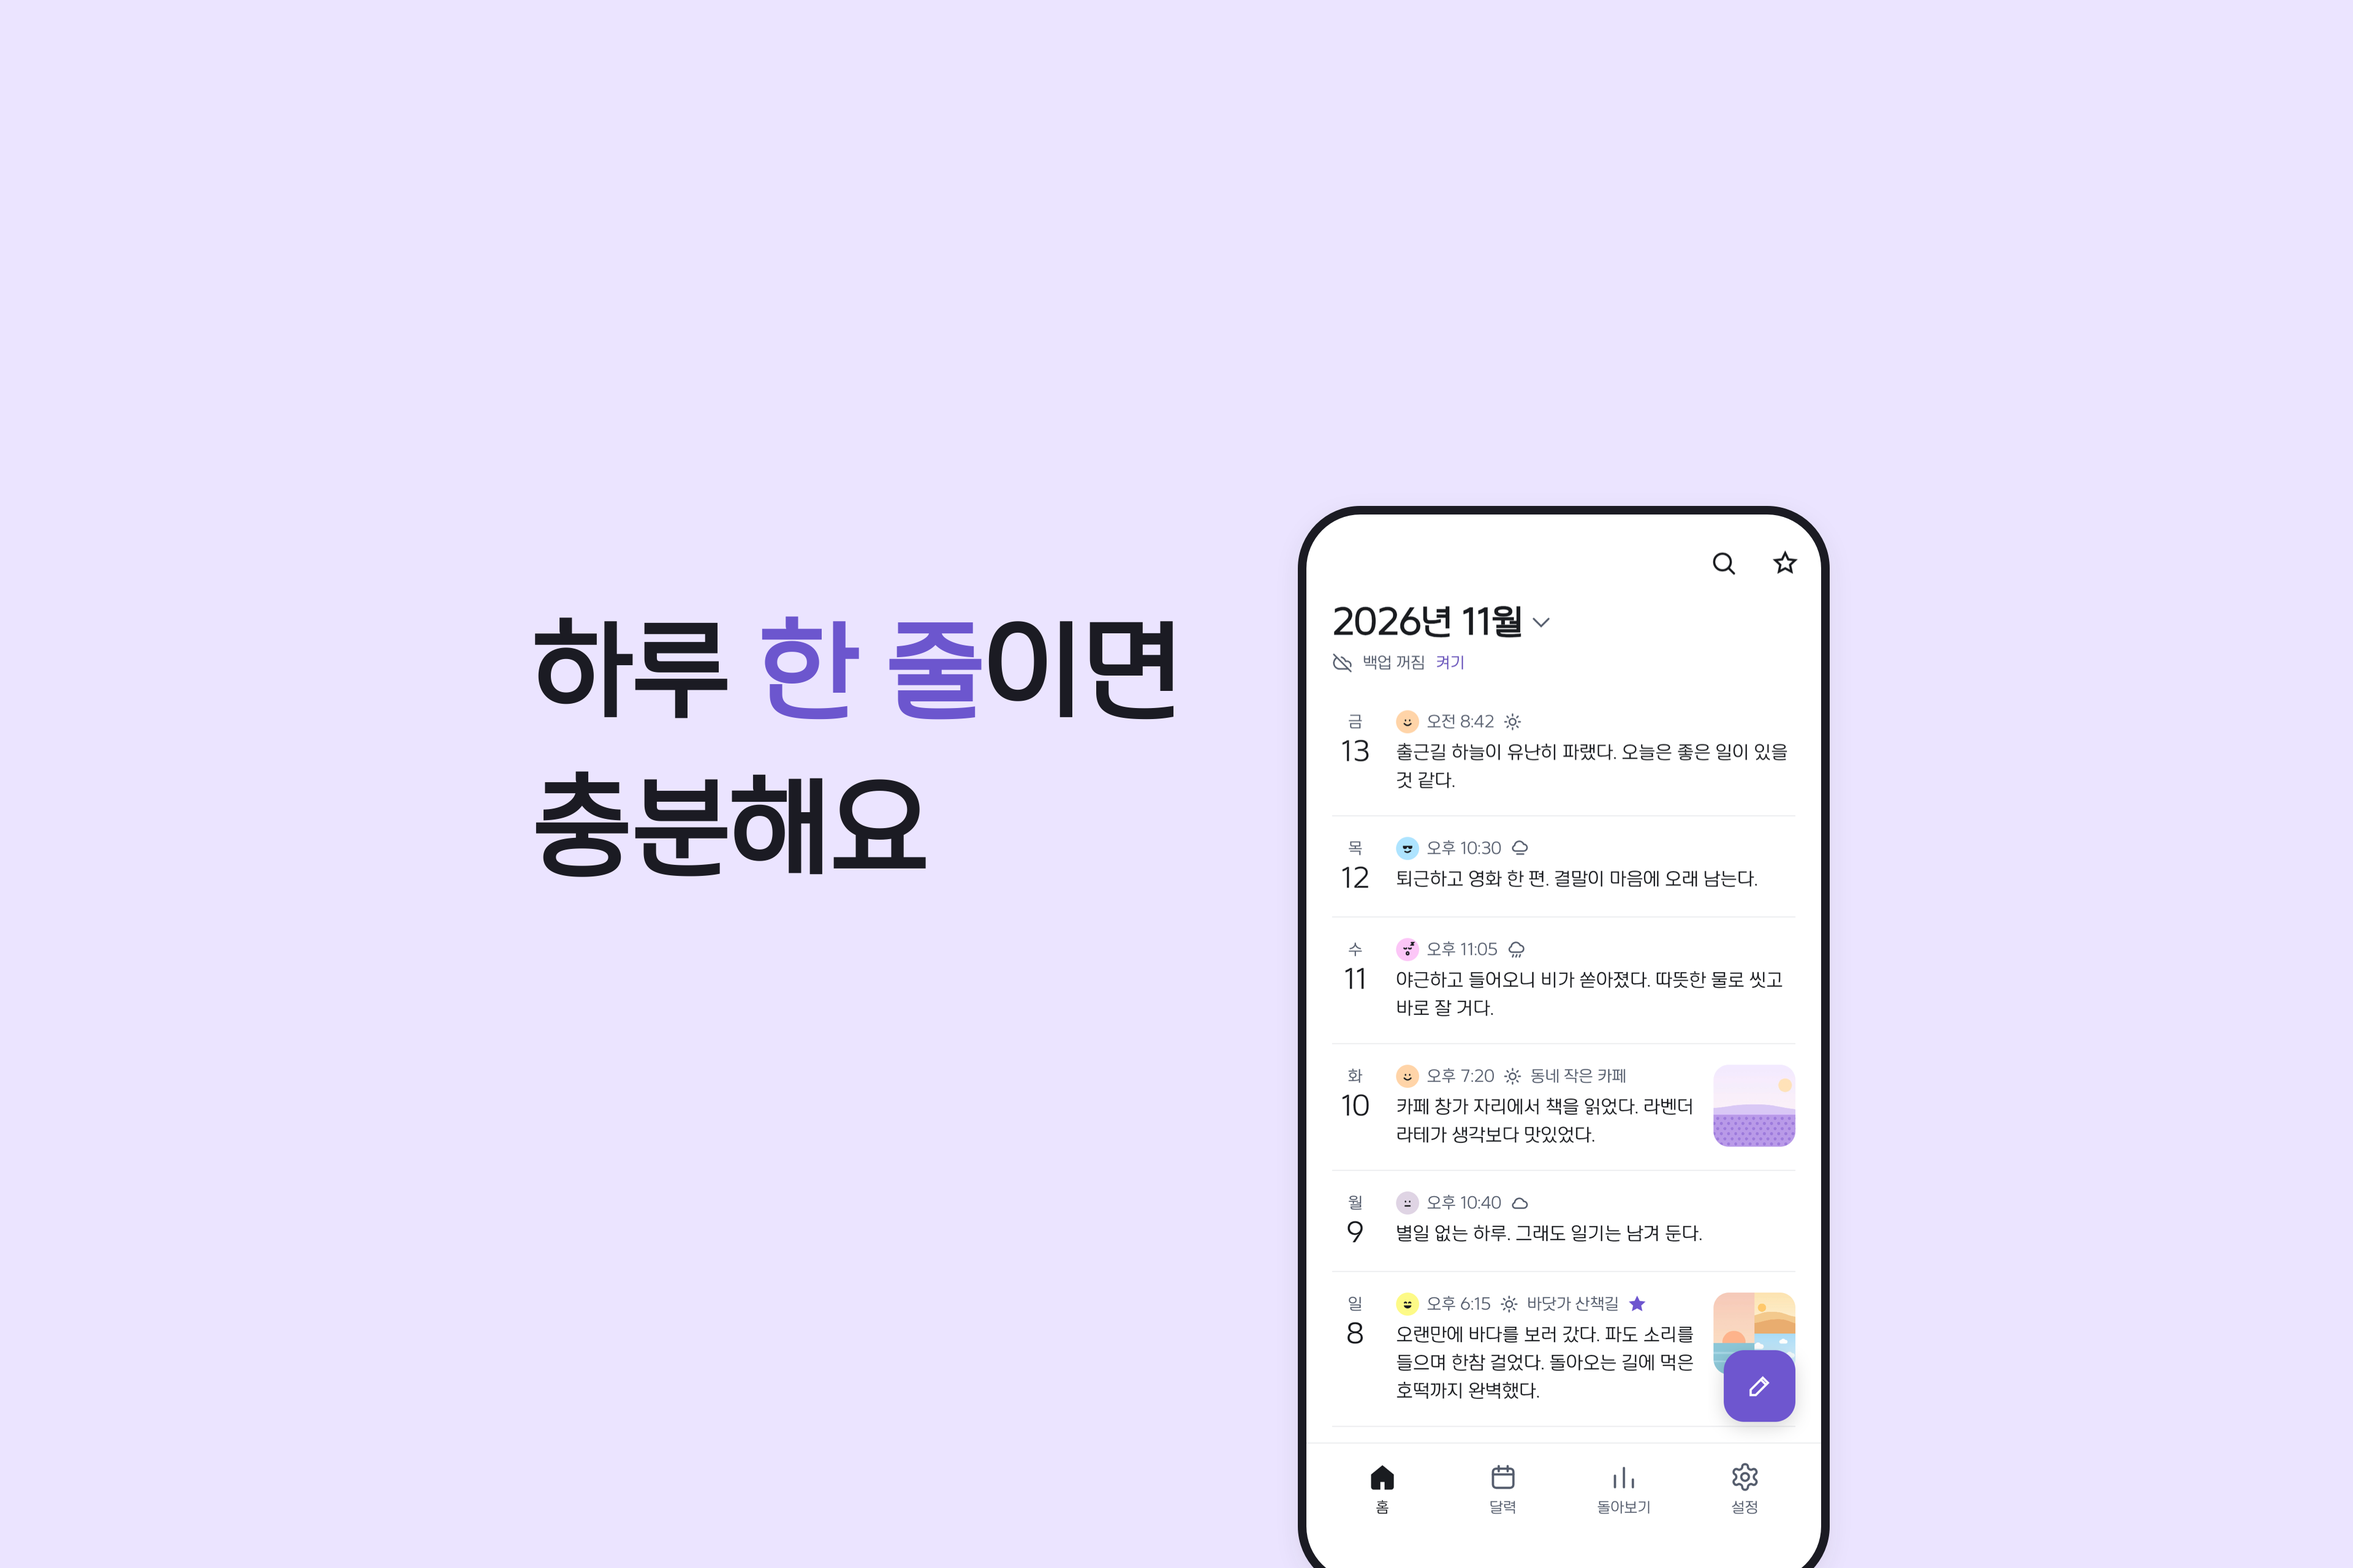
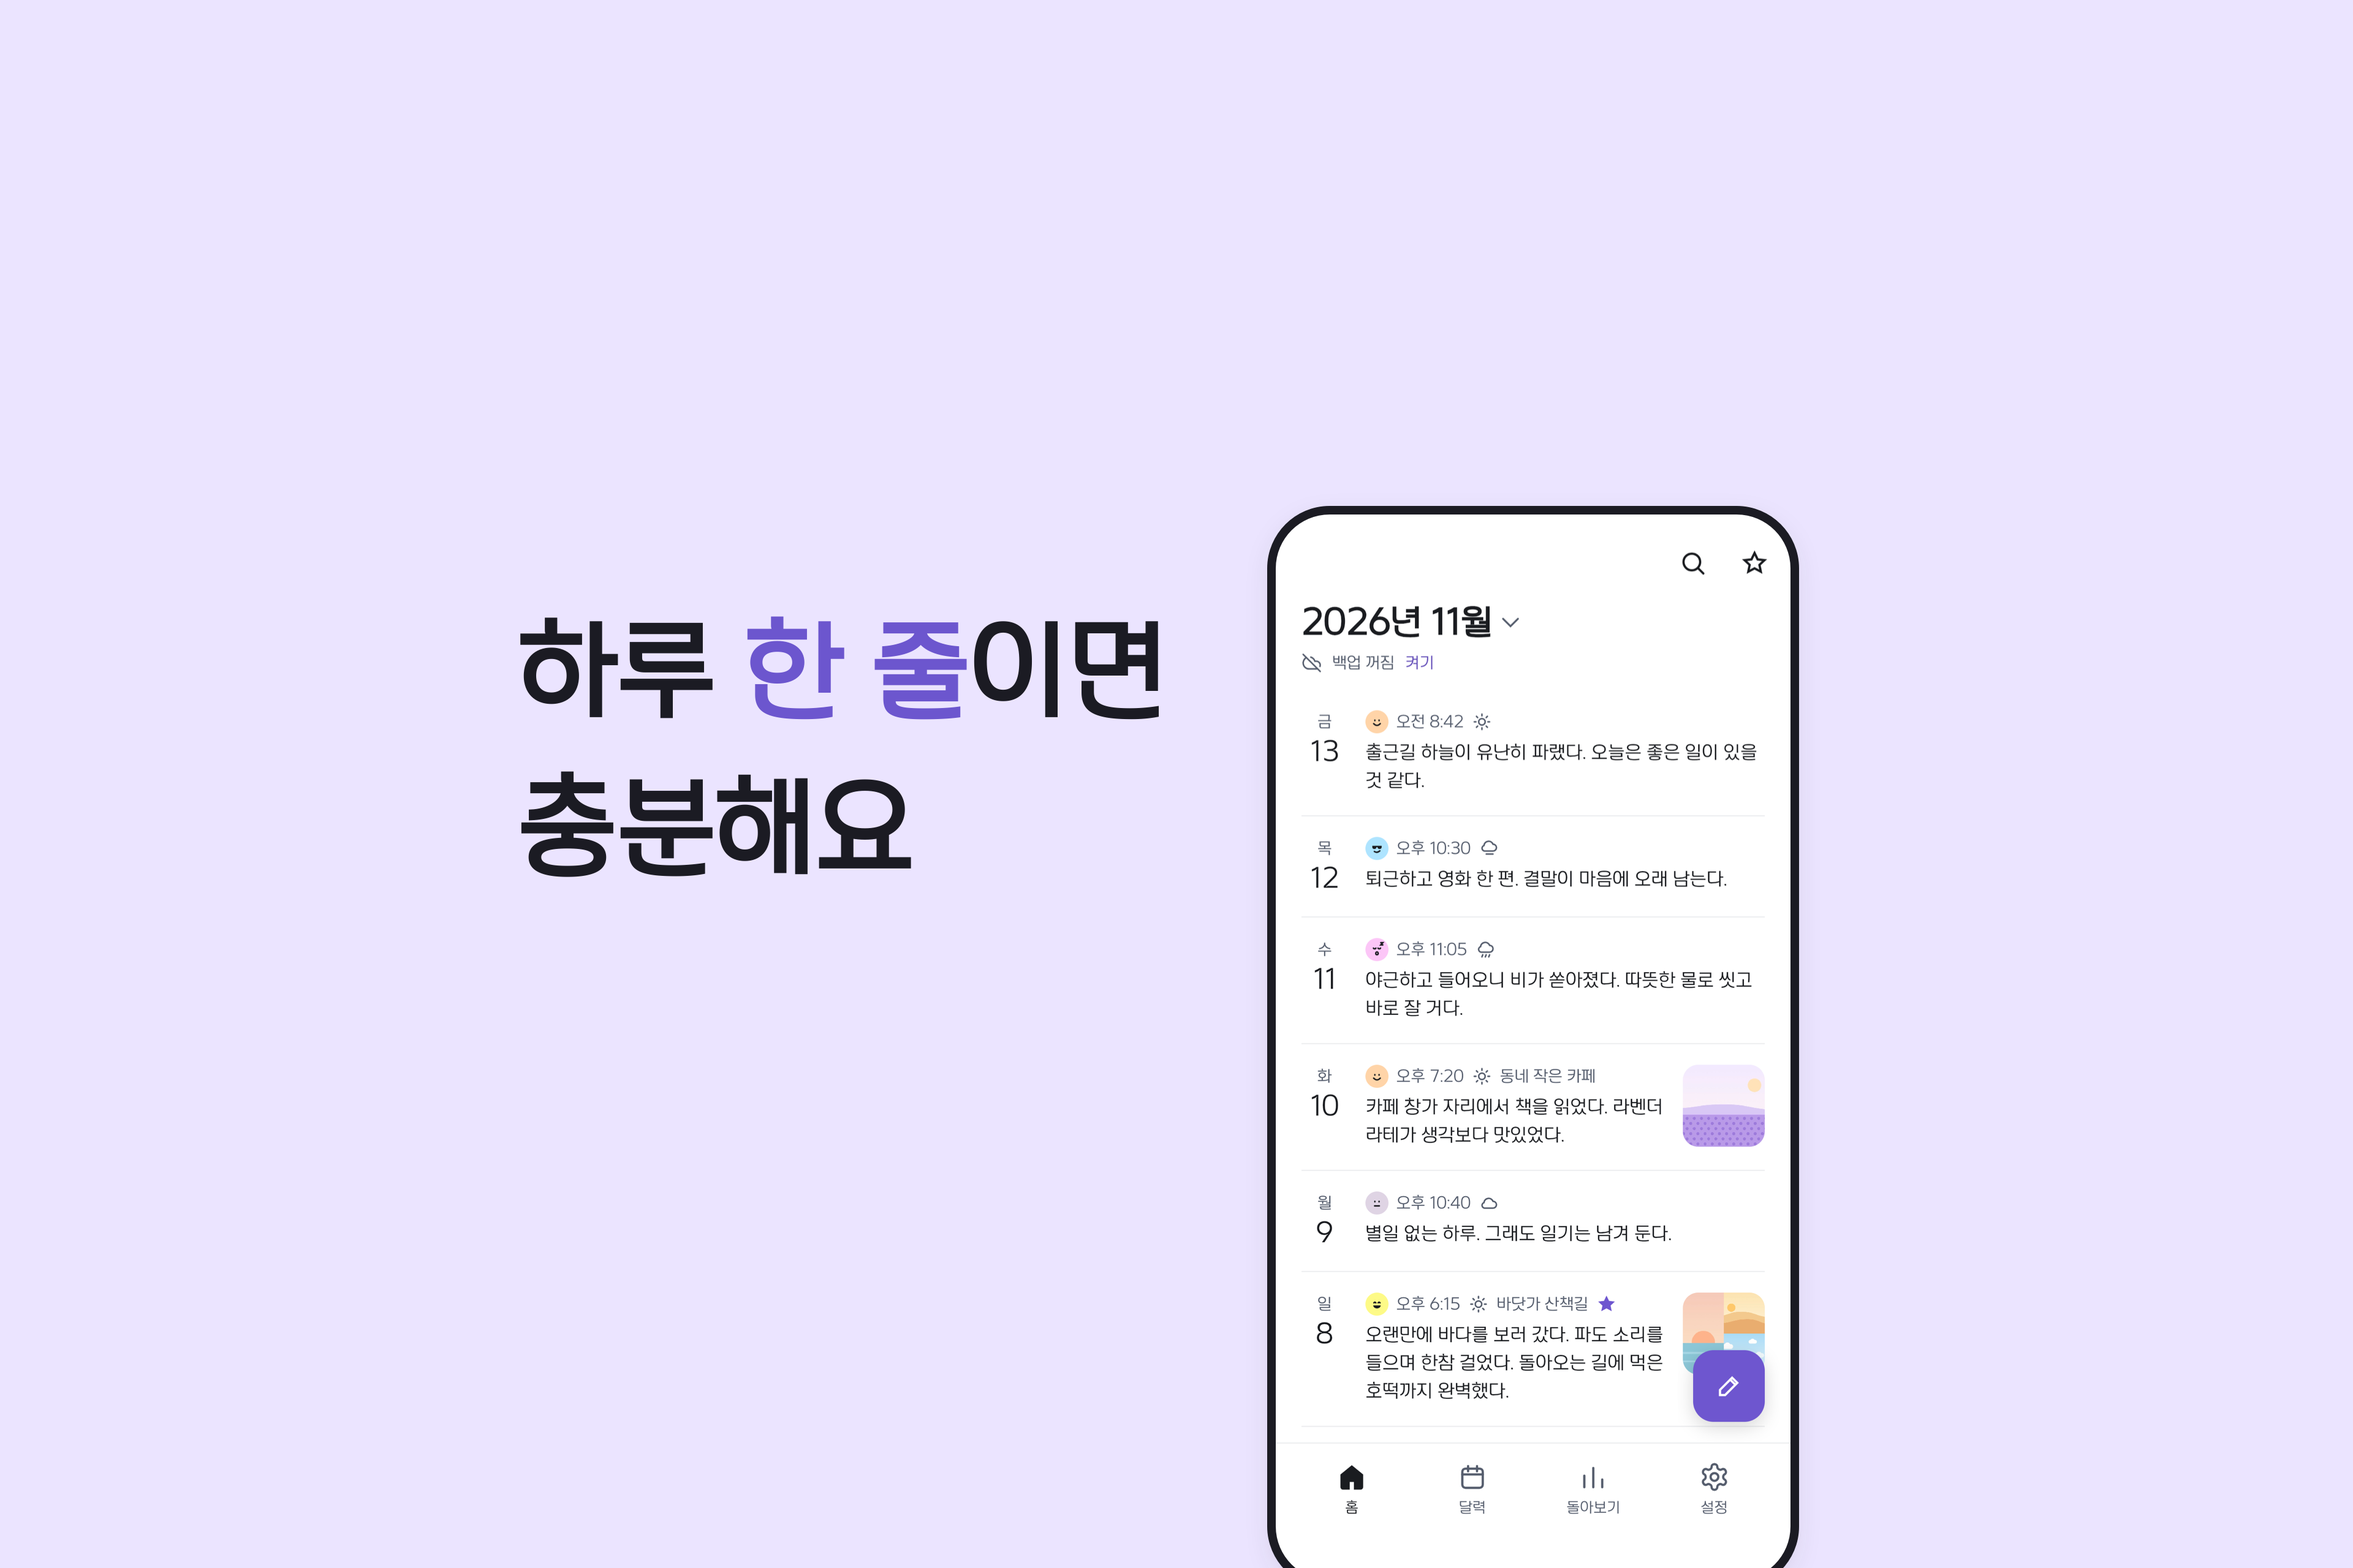
docs(design): App Store 헤더 연필 간격과 검색 결과 그림 쏠림 고침
헤더는 기울어진 연필의 지우개 끝이 글자에 닿을 듯해 붙어 보여
사이를 70px에서 100px로 넓혔다. 검색 결과 그림은 휴대폰 화면이
문구보다 무거워 테두리로 가운데를 잡으면 오른쪽으로 쏠려 보였다.
그림을 한 번 그려 무게 중심을 재고 그만큼 왼쪽으로 옮기되 Apple
안전 영역은 넘지 않게 했다.

Changed region(s): [[0.5312, 0.3125, 0.7812, 1.0], [0.2188, 0.375, 0.5, 0.5625], [0.625, 0.9375, 0.6875, 0.9688]]

diff --git a/scripts/store/make_screens.swift b/scripts/store/make_screens.swift
@@ -113,6 +113,20 @@ func phone(_ name: String, _ rect: NSRect, _ radius: CGFloat, bezel: Bool = true
     NSGraphicsContext.restoreGraphicsState()
 }
 
+/** 바탕과 다른 픽셀의 가로 무게 중심. 눈에 보이는 쏠림을 잼 */
+func massCenterX(_ rep: NSBitmapImageRep) -> CGFloat {
+    let corner = rep.colorAt(x: 4, y: 4)!.usingColorSpace(.sRGB)!
+    var total = 0.0, moment = 0.0
+    for y in stride(from: 0, to: rep.pixelsHigh, by: 3) {
+        for x in stride(from: 0, to: rep.pixelsWide, by: 3) {
+            let c = rep.colorAt(x: x, y: y)!.usingColorSpace(.sRGB)!
+            let d = abs(c.redComponent - corner.redComponent) + abs(c.greenComponent - corner.greenComponent) + abs(c.blueComponent - corner.blueComponent)
+            if d > 0.15 { total += d; moment += d * Double(x) }
+        }
+    }
+    return total > 0 ? CGFloat(moment / total) : CGFloat(rep.pixelsWide) / 2
+}
+
 func save(_ rep: NSBitmapImageRep, _ name: String) {
     try! rep.representation(using: .png, properties: [:])!.write(to: URL(fileURLWithPath: "\(output)/\(name).png"))
 }
@@ -325,18 +339,23 @@ if search {
         "ja": ("1日1行で\n十分です", "1行")
     ]
     let (words, word) = lines[language]!
-    let rep = canvas(3840, 2560) {
-        // 검색 카드는 작게 보여 문구를 크게
-        // 문구와 화면 사이를 언어와 상관없이 같게 두고, 둘을 한 덩어리로 가운데에
-        let gap: CGFloat = 200, phoneWidth: CGFloat = 840
-        // 안전 영역 너비(2168)를 넘는 언어만 문구를 줄임
-        let base: CGFloat = language == "ja" ? 176 : 184
-        let room = 2168 - gap - phoneWidth
-        let size = min(base, (base * room / textWidth(words, base)).rounded(.down))
-        let wordsWidth = textWidth(words, size)
-        let start = ((3840 - (wordsWidth + gap + phoneWidth)) / 2).rounded()
-        text(words, size, ink, NSRect(x: start, y: 1090, width: wordsWidth + 10, height: 520), .left, accented: word)
-        phone("list", NSRect(x: start + wordsWidth + gap, y: -20, width: phoneWidth, height: 1740), 88)
+    // 검색 카드는 작게 보여 문구를 크게
+    let gap: CGFloat = 160, phoneWidth: CGFloat = 840, bezel: CGFloat = 14
+    let outer = phoneWidth + bezel * 2
+    // 안전 영역(가로 836~3004)을 넘는 언어만 문구를 줄임
+    let base: CGFloat = language == "ja" ? 176 : 184
+    let size = min(base, (base * (2168 - gap - outer) / textWidth(words, base)).rounded(.down))
+    let wordsWidth = textWidth(words, size)
+    func draw(_ start: CGFloat) -> NSBitmapImageRep {
+        canvas(3840, 2560) {
+            text(words, size, ink, NSRect(x: start, y: 1090, width: wordsWidth + 10, height: 520), .left, accented: word)
+            phone("list", NSRect(x: start + wordsWidth + gap + bezel, y: -20, width: phoneWidth, height: 1740), 88)
+        }
     }
+    // 화면이 문구보다 무거워 테두리로 가운데를 잡으면 오른쪽으로 쏠려 보임
+    // 한 번 그려 무게 중심을 재고 그만큼 왼쪽으로 옮김. 문구가 긴 언어는 안전 영역 왼쪽 끝(836)까지만
+    let centered = ((3840 - (wordsWidth + gap + outer)) / 2).rounded()
+    let start = max(centered + 1920 - massCenterX(draw(centered)), 836).rounded()
+    let rep = draw(start)
     save(rep, "search")
 }

diff --git a/scripts/store/make_header.swift b/scripts/store/make_header.swift
@@ -204,7 +204,8 @@ if layout.hasPrefix("wordmark") {
     // 연필 그림 상자 안에서 실제로 칠해진 곳(launch-pencil.svg 208 칸 기준)
     let mark: CGFloat = 440
     let pencilVisual = CGRect(x: 56.0 / 208, y: 48.2 / 208, width: 104.7 / 208, height: 109.4 / 208)
-    let gap: CGFloat = 70
+    // 기울어진 연필은 지우개 끝이 글자에 가장 가까워 보여 글자 높이의 절반쯤 띄움
+    let gap: CGFloat = 100
     let groupWidth = pencilVisual.width * mark + gap + glyphs.width
     let visualLeft = center.x - groupWidth / 2
 

diff --git a/docs/store/listing.md b/docs/store/listing.md
@@ -316,8 +316,8 @@ mood,daily,log,feelings,journal,photo,private,lock,backup,calendar,gratitude,not
 
 App Store 상품 페이지 맨 위 헤더(21:9, 3840×1646)와 검색 결과 카드(3:2, 3840×2560)다. 2026-11-16 App Store Connect 2.0.1에 세 언어로 넣었다.
 
-- 헤더: 앱 아이콘의 연필과 앱 이름을 한 덩어리로 가운데에 두고, 바탕은 가운데가 밝은 라벤더 그라데이션이다. 유명 앱(Structured, Goodnotes, Apple 예시)이 쓰는 "심볼 + 이름" 꼴이다. 기분 얼굴을 무늬나 줄로 넣은 안은 어수선해 뺐다. 눈에 보이는 연필과 글자 테두리로 가로세로 가운데를 맞춘다. `docs/store/screens/ios/{ko,en,ja}/header.png`, `swift scripts/store/make_header.swift <결과> <연필 SVG> - wordmark-<언어> <창원단감둥근체 파일>`.
-- 검색 결과: 홍보 문구 첫 줄과 실제 목록 화면이다. 문구와 화면 묶음을 Apple 안전 영역(2168×1030) 안 가운데에 두고, 넘치는 언어만 글자를 줄인다. `docs/store/screens/ios/{ko,en,ja}/search.png`, `make_screens.swift`의 `search` 모드.
+- 헤더: 앱 아이콘의 연필과 앱 이름을 한 덩어리로 가운데에 두고, 사이는 100px(글자 높이의 절반쯤. 기울어진 연필의 지우개 끝이 글자에 가장 가까워 70px은 붙어 보였다, 2026-11-16)이고, 바탕은 가운데가 밝은 라벤더 그라데이션이다. 유명 앱(Structured, Goodnotes, Apple 예시)이 쓰는 "심볼 + 이름" 꼴이다. 기분 얼굴을 무늬나 줄로 넣은 안은 어수선해 뺐다. 눈에 보이는 연필과 글자 테두리로 가로세로 가운데를 맞춘다. `docs/store/screens/ios/{ko,en,ja}/header.png`, `swift scripts/store/make_header.swift <결과> <연필 SVG> - wordmark-<언어> <창원단감둥근체 파일>`.
+- 검색 결과: 홍보 문구 첫 줄과 실제 목록 화면이다. 화면이 문구보다 무거워 테두리 기준 가운데는 오른쪽으로 쏠려 보여, 그림을 한 번 그려 무게 중심을 재고 그만큼 왼쪽으로 옮긴다(2026-11-16). Apple 안전 영역(가로 836~3004)은 넘지 않아, 문구가 긴 영어는 왼쪽 끝까지만 옮긴다. 넘치는 언어만 글자를 줄인다. `docs/store/screens/ios/{ko,en,ja}/search.png`, `make_screens.swift`의 `search` 모드.
 - iPhone은 헤더를 화면 폭에 맞춰 줄여 보여 준다. 작은 그림은 쌀알처럼 보여 크게 둔다. 바꾼 뒤에는 App Store Connect [미리보기]로 iPhone·iPad를 본다.
 
 ## App Store 맞춤형 제품 페이지
